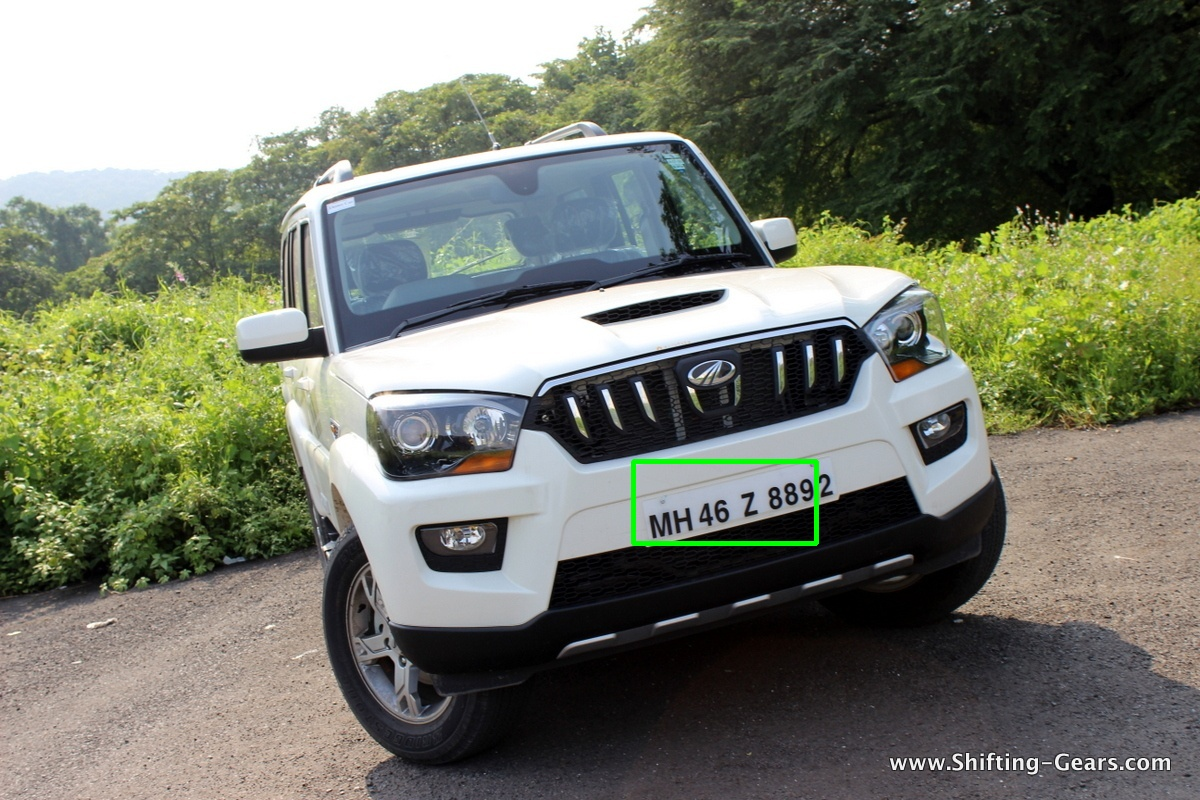
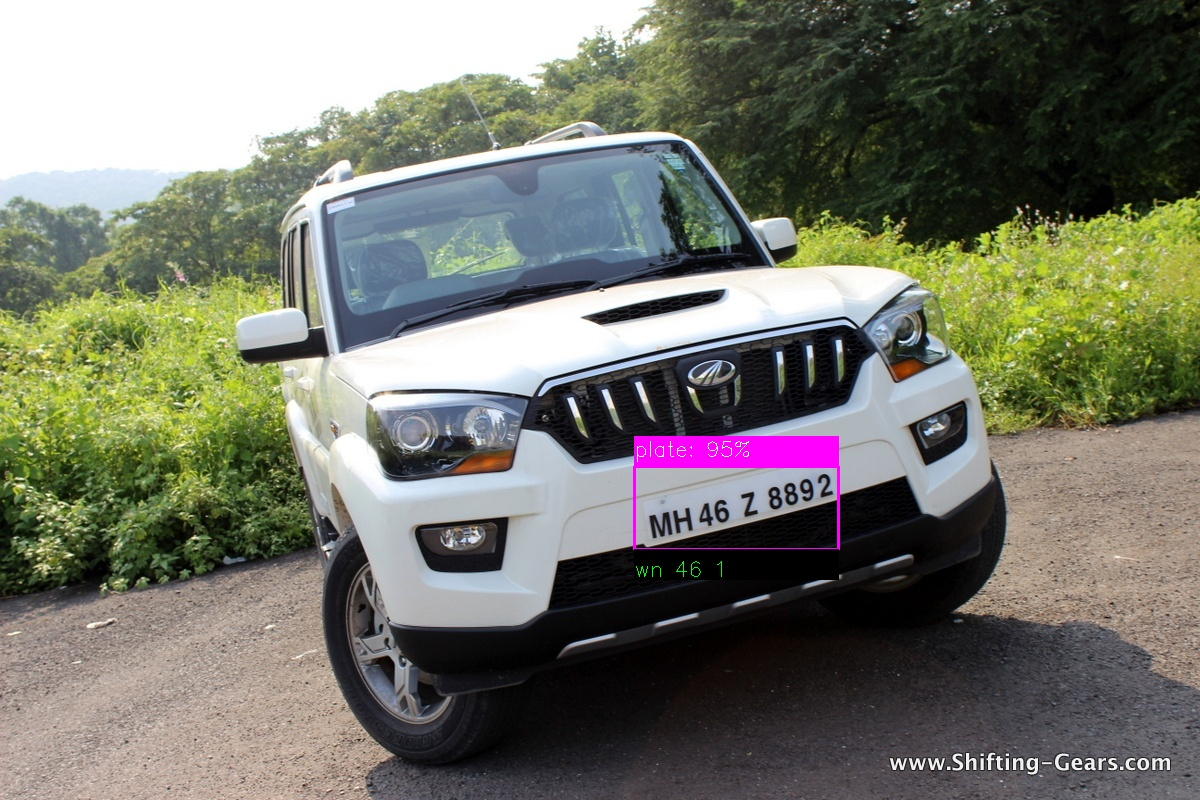
ok

Changed region(s): [[0.5242, 0.5312, 0.7092, 0.7188]]

diff --git a/app.py b/app.py
@@ -1,4 +1,4 @@
-from flask import Flask, request, jsonify
+from flask import Flask, request, jsonify, send_file
 import os 
 from deeplearning import object_detection
 
@@ -6,8 +6,9 @@ app = Flask(__name__)
 
 BASE_PATH = os.getcwd()
 UPLOAD_PATH = os.path.join(BASE_PATH,'static/upload/')
+PREDICT_PATH = os.path.join(BASE_PATH,'static/predict/')
 
-@app.route('/api/object_detection', methods=['POST'])
+@app.route('/api/object_detection_text', methods=['POST'])
 def detect_text():
     if 'image_name' not in request.files:
         return jsonify({'error': 'No file uploaded'}), 400
@@ -17,10 +18,26 @@ def detect_text():
     path_save = os.path.join(UPLOAD_PATH, filename)
     upload_file.save(path_save)
     
-    text_list = object_detection(path_save, filename)
-    os.remove(path_save)
+    filename2 ,text_list = object_detection(path_save, filename)
     
     return jsonify({'text_list': text_list})
+
+@app.route('/api/object_detection_image', methods=['POST'])
+def detect_image():
+    if 'image_name' not in request.files:
+        return jsonify({'error': 'No file uploaded'}), 400
+    
+    upload_file = request.files['image_name']
+    filename = upload_file.filename
+    path_save = os.path.join(UPLOAD_PATH, filename)
+    upload_file.save(path_save)
+    
+    filename , text_list = object_detection(path_save, filename)
+    predicted_path = os.path.join(PREDICT_PATH, filename)
+    
+
+    return send_file(predicted_path)
+
 
 if __name__ == "__main__":
     app.run(debug=True)

diff --git a/deeplearning.py b/deeplearning.py
@@ -1,5 +1,6 @@
 import numpy as np
 import cv2
+import os
 import matplotlib.pyplot as plt
 import pytesseract as pt
 
@@ -115,13 +116,18 @@ def yolo_predictions(img,net):
     return result_img, text
 
 
-def object_detection(path,filename):
+def object_detection(path, filename):
     # read image
     image = cv2.imread(path) # PIL object
     image = np.array(image,dtype=np.uint8) # 8 bit array (0,255)
     result_img, text_list = yolo_predictions(image,net)
-    cv2.imwrite('./static/predict/{}'.format(filename),result_img)
-    return text_list
+    
+    # Save predicted image
+    predicted_path = os.path.join('./static/predict/', filename)
+    cv2.imwrite(predicted_path, result_img)
+    
+    # Return filename of predicted image
+    return filename,text_list
 
 
 
